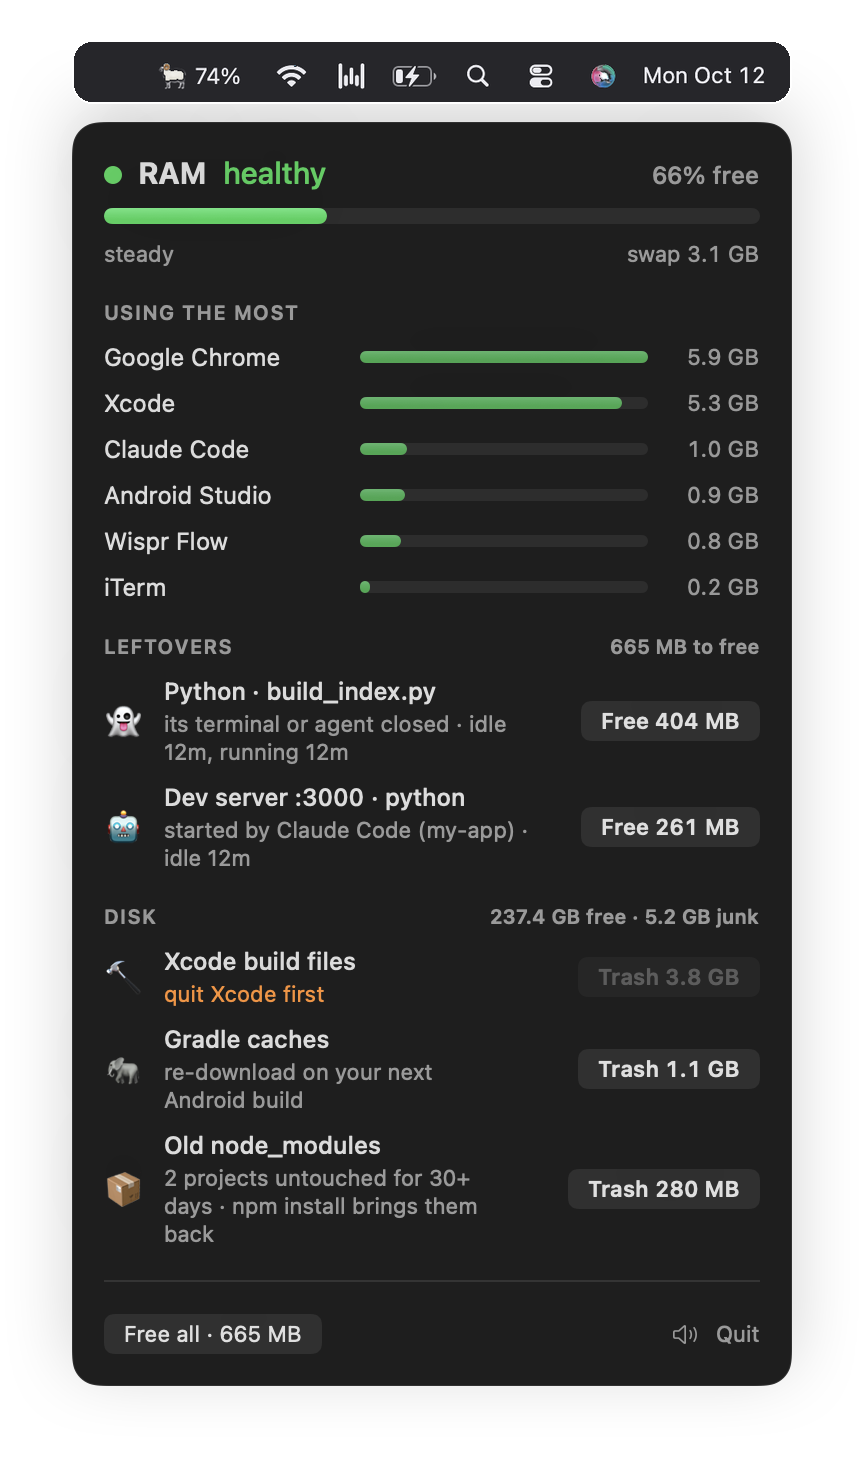
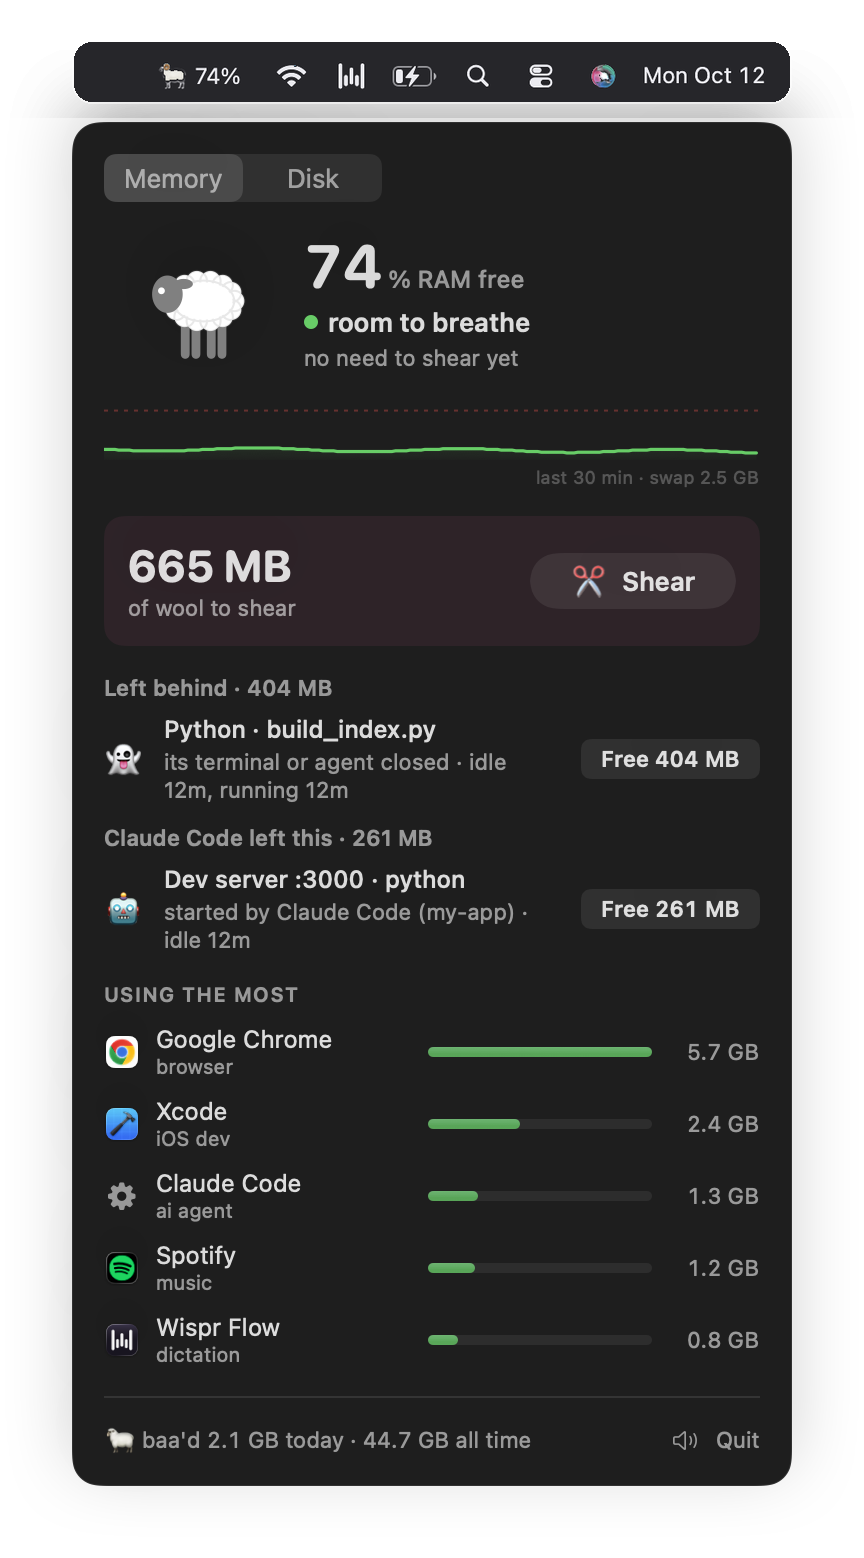
new ss

diff --git a/Sources/main.swift b/Sources/main.swift
@@ -990,7 +990,7 @@ func whatIs(_ name: String) -> String? {
 struct MenuView: View {
     @ObservedObject var m = Model.shared
     @State var tab = 0
-    @State private var showLeftovers = false
+    @State var showLeftovers = false
 
     var status: (title: String, line: String) {
         switch m.health {
@@ -1285,16 +1285,17 @@ enum CLI {
         m.junk = Disk.scan(); m.diskFree = Disk.free; m.diskTotal = Disk.total
         if demo {
             // sample leftovers for readme screenshots (same two baa caught for real while testing)
+            m.free = 74; m.level = 1
             m.scan.findings = [
                 Finding(id: "demo-1", kind: .ghost, title: "Python · build_index.py", detail: "its terminal or agent closed · idle 12m, running 12m",
                         bytes: 404 * 1_048_576, fix: .kill([])),
                 Finding(id: "demo-2", kind: .agent, title: "Dev server :3000 · python", detail: "started by Claude Code (my-app) · idle 12m",
                         bytes: 261 * 1_048_576, fix: .kill([])),
-            ] + m.scan.findings
-            m.spark = (0..<180).map { (i: Int) -> Int in let x = Double(i); return Int(58.0 - x * 0.12 + sin(x / 7.0) * 3.0) }
+            ]
+            m.spark = (0..<180).map { (i: Int) -> Int in let x = Double(i); return Int(70.0 + x * 0.02 + sin(x / 9.0) * 2.5) }
             m.freedToday = 2.3e9; m.freedAll = 48e9
         }
-        let panel = MenuView(tab: disk ? 1 : 0)
+        let panel = MenuView(tab: disk ? 1 : 0, showLeftovers: demo)
             .background(RoundedRectangle(cornerRadius: 14).fill(Color(nsColor: .windowBackgroundColor)))
             .overlay(RoundedRectangle(cornerRadius: 14).stroke(Color.primary.opacity(0.1), lineWidth: 1))
             .shadow(color: .black.opacity(0.18), radius: 18, y: 8)
